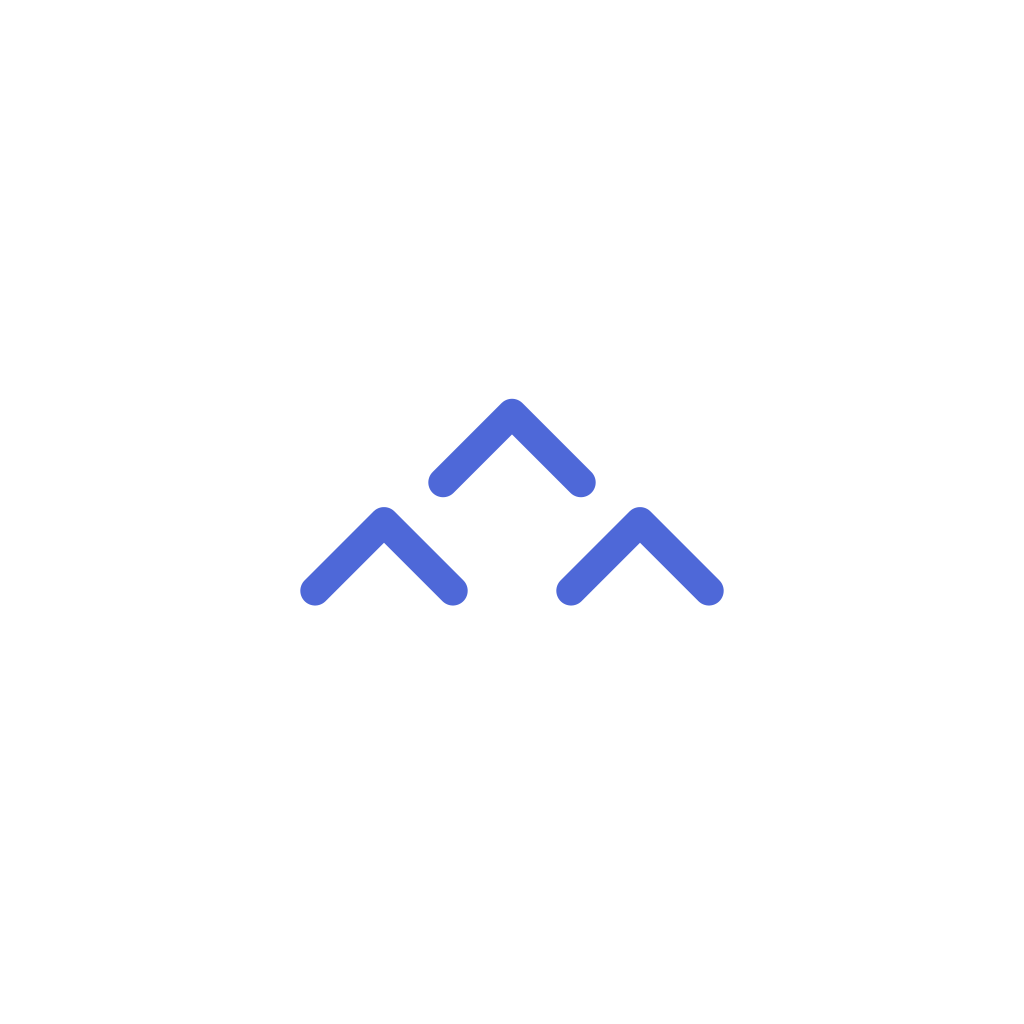
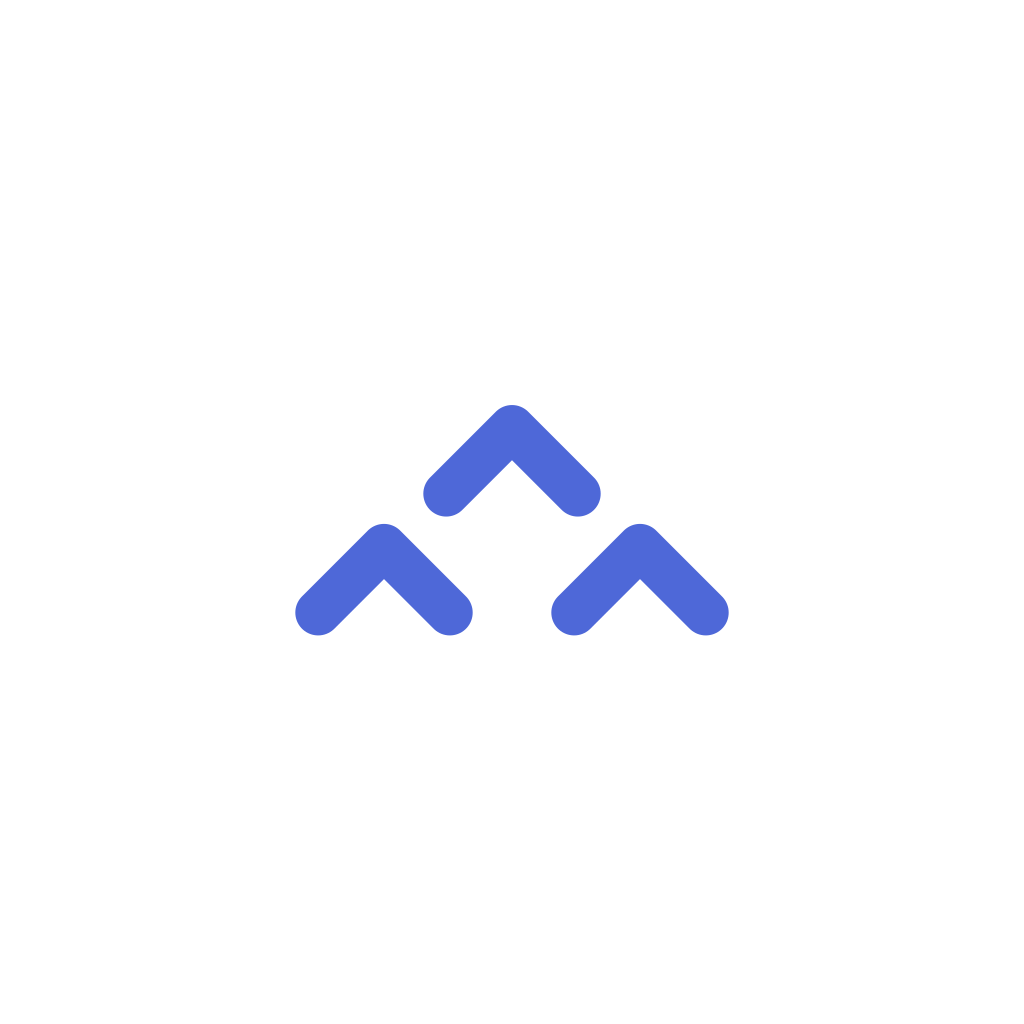
0.211.0 #no-ticket: feat: the wordmark is chunkier, with heavier compact chevrons on every surface
Chevrons keep their shape at a 2.5 stroke on a 28x22 box and the word moves to bold. Applied to the web wordmark and favicon, the invite share card (now carries the chevrons), the phone wordmark, launch screen, Trips tab icon and store icons, the docs, wireframe kit and marketing studio. The icon script and share-card image are excluded from coverage like other asset generators.

Changed region(s): [[0.2812, 0.375, 0.7188, 0.625]]

diff --git a/floc/marketing/studio/scenes/v1-steps/promo.js b/floc/marketing/studio/scenes/v1-steps/promo.js
@@ -36,8 +36,8 @@ const caption = (parent, kicker, words) => {
 const s1 = scene(0, 3.5, 0.6);
 s1.node.append(el(`<div class="abs" style="left:0;right:0;top:700px;display:flex;justify-content:center">
   <span class="mark" style="font-size:210px">
-    <svg viewBox="0 0 26 20" width="260" height="200" fill="none" stroke="currentColor" stroke-width="1.2" stroke-linecap="round" stroke-linejoin="round">
-      <path pathLength="1" d="M3 14 6.5 10.5 10 14"/><path pathLength="1" d="M9.5 8.5 13 5 16.5 8.5"/><path pathLength="1" d="M16 14 19.5 10.5 23 14"/>
+    <svg viewBox="0 0 28 22" width="254" height="200" fill="none" stroke="currentColor" stroke-width="2.5" stroke-linecap="round" stroke-linejoin="round">
+      <path pathLength="1" d="M3.4 16.5 7 12.9 10.6 16.5"/><path pathLength="1" d="M10.4 10 14 6.4 17.6 10"/><path pathLength="1" d="M17.4 16.5 21 12.9 24.6 16.5"/>
     </svg>
     <span>${[..."floc"].map((c) => `<span class="l" style="display:inline-block">${c}</span>`).join("")}<span class="dot" style="transform-origin:50% 80%">.</span></span>
   </span></div>`));
@@ -232,7 +232,7 @@ s5.update = (lt) => {
 const s6 = scene(20.5, 23, 0.6);
 s6.node.append(el(`<div class="abs" style="left:0;right:0;top:700px;display:flex;justify-content:center">
   <span class="mark" style="font-size:190px">
-    <svg viewBox="0 0 26 20" width="236" height="182" fill="none" stroke="currentColor" stroke-width="1.2" stroke-linecap="round" stroke-linejoin="round"><path d="M3 14 6.5 10.5 10 14"/><path d="M9.5 8.5 13 5 16.5 8.5"/><path d="M16 14 19.5 10.5 23 14"/></svg>
+    <svg viewBox="0 0 28 22" width="230" height="182" fill="none" stroke="currentColor" stroke-width="2.5" stroke-linecap="round" stroke-linejoin="round"><path d="M3.4 16.5 7 12.9 10.6 16.5"/><path d="M10.4 10 14 6.4 17.6 10"/><path d="M17.4 16.5 21 12.9 24.6 16.5"/></svg>
     <span>floc<span class="dot">.</span></span></span></div>`));
 const cta = el('<div class="cta">Start a trip — free</div>');
 const url = el(`<div class="url">${CTA_URL}</div>`);

diff --git a/floc/apps/mobile/src/components/system/wordmark.tsx b/floc/apps/mobile/src/components/system/wordmark.tsx
@@ -1,9 +1,9 @@
 /**
- * The wordmark, drawn natively (#no-ticket; the web's `wordmark.tsx`).
+ * Why: the wordmark, drawn natively (#no-ticket; the web's `wordmark.tsx`).
  *
  * THE SAME MARK, NOT A SIMILAR ONE. Three chevrons in a V — the flock, and the
  * "who's coming" of a trip — then the display face lowercase with the one pen
- * dot that carries through the product as "yours". Same 26×20 viewBox and the
+ * dot that carries through the product as "yours". Same 28×22 viewBox and the
  * same three paths as the browser draws, so the two surfaces cannot drift.
  *
  * IT IS THE BIGGEST THING ON THE SIGN-IN SCREEN, a third over the browser's
@@ -23,25 +23,25 @@ export function FlocWordmark() {
   const { c } = useTheme();
   return (
     <View style={{ flexDirection: "row", alignItems: "center", gap: space.sm }}>
-      <Svg width={32} height={26} viewBox="0 0 26 20" fill="none">
+      <Svg width={33} height={26} viewBox="0 0 28 22" fill="none">
         <Path
-          d="M3 14 6.5 10.5 10 14"
+          d="M3.4 16.5 7 12.9 10.6 16.5"
           stroke={c.pen}
-          strokeWidth={1.2}
+          strokeWidth={2.5}
           strokeLinecap="round"
           strokeLinejoin="round"
         />
         <Path
-          d="M9.5 8.5 13 5 16.5 8.5"
+          d="M10.4 10 14 6.4 17.6 10"
           stroke={c.pen}
-          strokeWidth={1.2}
+          strokeWidth={2.5}
           strokeLinecap="round"
           strokeLinejoin="round"
         />
         <Path
-          d="M16 14 19.5 10.5 23 14"
+          d="M17.4 16.5 21 12.9 24.6 16.5"
           stroke={c.pen}
-          strokeWidth={1.2}
+          strokeWidth={2.5}
           strokeLinecap="round"
           strokeLinejoin="round"
         />

diff --git a/floc/apps/mobile/src/components/system/launch.tsx b/floc/apps/mobile/src/components/system/launch.tsx
@@ -28,8 +28,8 @@ import { useReducedMotion } from "./use-reduced-motion";
 const EXIT_MS = 460;
 /** The chevron block, as a share of the screen width. See the note above. */
 const MARK_FRACTION = 361 / 1284;
-/** The block sits x 2.4–23.6 of the 26-unit viewBox — 21.2 units of 26. */
-const VIEWBOX_SLACK = 26 / 21.2;
+/** The block sits x 2.15–25.85 of the 28-unit viewBox — 23.7 units of 28. */
+const VIEWBOX_SLACK = 28 / 23.7;
 
 export function LaunchCurtain({ ready, onDone }: { ready: boolean; onDone: () => void }) {
   const { c } = useTheme();
@@ -85,25 +85,25 @@ export function LaunchCurtain({ ready, onDone }: { ready: boolean; onDone: () =>
           ],
         }}
       >
-        <Svg width={markWidth} height={markWidth * (20 / 26)} viewBox="0 0 26 20" fill="none">
+        <Svg width={markWidth} height={markWidth * (22 / 28)} viewBox="0 0 28 22" fill="none">
           <Path
-            d="M3 14 6.5 10.5 10 14"
+            d="M3.4 16.5 7 12.9 10.6 16.5"
             stroke={c.pen}
-            strokeWidth={1.2}
+            strokeWidth={2.5}
             strokeLinecap="round"
             strokeLinejoin="round"
           />
           <Path
-            d="M9.5 8.5 13 5 16.5 8.5"
+            d="M10.4 10 14 6.4 17.6 10"
             stroke={c.pen}
-            strokeWidth={1.2}
+            strokeWidth={2.5}
             strokeLinecap="round"
             strokeLinejoin="round"
           />
           <Path
-            d="M16 14 19.5 10.5 23 14"
+            d="M17.4 16.5 21 12.9 24.6 16.5"
             stroke={c.pen}
-            strokeWidth={1.2}
+            strokeWidth={2.5}
             strokeLinecap="round"
             strokeLinejoin="round"
           />

diff --git a/floc/apps/web/src/app/invite/[token]/opengraph-image.tsx b/floc/apps/web/src/app/invite/[token]/opengraph-image.tsx
@@ -1,10 +1,10 @@
 /**
- * The link-preview card a shared invite unfurls to — WhatsApp, iMessage, Slack
+ * Why: the link-preview card a shared invite unfurls to — WhatsApp, iMessage, Slack
  * (ticket: rich invite embed). The page already carries the OG title and
  * description; Next wires this file in as `og:image`/`twitter:image`
  * automatically, so a bare link becomes an inviting card.
  *
- * On brand: the off-white ground, the ink wordmark with the one blue dot, the
+ * On brand: the off-white ground, the chevrons and ink wordmark with the one blue dot, the
  * trip's name large. No custom font is loaded — ImageResponse's default keeps
  * this robust (rule 11): a card that always renders beats a prettier one that
  * can fail on a font fetch. A dead or unknown token falls back to a plain
@@ -63,7 +63,12 @@ export default async function InviteOgImage({
           padding: "72px 80px",
         }}
       >
-        <div style={{ display: "flex", fontSize: 34, fontWeight: 600, color: INK }}>
+        <div style={{ display: "flex", alignItems: "center", fontSize: 38, fontWeight: 700, color: INK }}>
+            <svg width={62} height={49} viewBox="0 0 28 22" fill="none" stroke={PEN} strokeWidth={2.5} strokeLinecap="round" strokeLinejoin="round" style={{ marginRight: 12 }}>
+              <path d="M3.4 16.5 7 12.9 10.6 16.5" />
+              <path d="M10.4 10 14 6.4 17.6 10" />
+              <path d="M17.4 16.5 21 12.9 24.6 16.5" />
+            </svg>
           floc<span style={{ color: PEN }}>.</span>
         </div>
 

diff --git a/docs/assets/nav.js b/docs/assets/nav.js
@@ -143,10 +143,10 @@
   brand.className = 'brand';
   brand.href = url('index.html');
   brand.innerHTML =
-    '<svg viewBox="0 0 26 20" width="25" height="20" aria-hidden="true" fill="none" ' +
-    'stroke="currentColor" stroke-width="1.2" stroke-linecap="round" stroke-linejoin="round">' +
-    '<path d="M3 14 6.5 10.5 10 14"/><path d="M9.5 8.5 13 5 16.5 8.5"/>' +
-    '<path d="M16 14 19.5 10.5 23 14"/></svg>' +
+    '<svg viewBox="0 0 28 22" width="25" height="20" aria-hidden="true" fill="none" ' +
+    'stroke="currentColor" stroke-width="2.5" stroke-linecap="round" stroke-linejoin="round">' +
+    '<path d="M3.4 16.5 7 12.9 10.6 16.5"/><path d="M10.4 10 14 6.4 17.6 10"/>' +
+    '<path d="M17.4 16.5 21 12.9 24.6 16.5"/></svg>' +
     '<span class="brand-text"><b>floc<i>.</i></b><span>Documentation</span></span>';
   host.appendChild(brand);
 
@@ -157,7 +157,7 @@
   toggle.setAttribute('aria-controls', 'sidebar');
   toggle.innerHTML =
     '<svg viewBox="0 0 14 14" width="13" height="13" aria-hidden="true" fill="none" ' +
-    'stroke="currentColor" stroke-width="1.2" stroke-linecap="round" stroke-linejoin="round">' +
+    'stroke="currentColor" stroke-width="2.5" stroke-linecap="round" stroke-linejoin="round">' +
     '<rect x="1.5" y="2" width="11" height="10" rx="1.6"/><path d="M5 2v10"/>' +
     '<path class="chev" d="M9.4 5.4 7.8 7l1.6 1.6"/></svg>';
   function markSidebar() {

diff --git a/floc/apps/mobile/src/components/system/tab-icons.tsx b/floc/apps/mobile/src/components/system/tab-icons.tsx
@@ -46,7 +46,7 @@ export function ExploreIcon({ color }: IconProps) {
 }
 
 /**
- * Trips — the wordmark's three chevrons, on their own 26×20 box.
+ * Why: Trips — the wordmark's three chevrons, on their own 28×22 box.
  *
  * These are the paths from `wordmark.tsx`, not `flock-chevron.tsx`. The two
  * differ by a vertical flip and mean opposite things: the wordmark is a flock
@@ -55,25 +55,25 @@ export function ExploreIcon({ color }: IconProps) {
  */
 export function TripsIcon({ color }: IconProps) {
   return (
-    <Svg width={(SIZE * 26) / 20} height={SIZE} viewBox="0 0 26 20" fill="none">
+    <Svg width={(SIZE * 28) / 22} height={SIZE} viewBox="0 0 28 22" fill="none">
       <Path
-        d="M3 14 6.5 10.5 10 14"
+        d="M3.4 16.5 7 12.9 10.6 16.5"
         stroke={color}
-        strokeWidth={1.6}
+        strokeWidth={2.4}
         strokeLinecap="round"
         strokeLinejoin="round"
       />
       <Path
-        d="M9.5 8.5 13 5 16.5 8.5"
+        d="M10.4 10 14 6.4 17.6 10"
         stroke={color}
-        strokeWidth={1.6}
+        strokeWidth={2.4}
         strokeLinecap="round"
         strokeLinejoin="round"
       />
       <Path
-        d="M16 14 19.5 10.5 23 14"
+        d="M17.4 16.5 21 12.9 24.6 16.5"
         stroke={color}
-        strokeWidth={1.6}
+        strokeWidth={2.4}
         strokeLinecap="round"
         strokeLinejoin="round"
       />

diff --git a/floc/marketing/studio/shared/engine.js b/floc/marketing/studio/shared/engine.js
@@ -17,8 +17,8 @@ const pose = (node, { o = 1, x = 0, y = 0, s = 1, r = 0 }) => { node.style.opaci
 const chip = (cls, letter) => `<div class="chip ${cls}">${letter}</div>`;
 const add = (parent, html) => { const n = el(html); parent.append(n); return n; };
 
-const CHEVRONS = '<path pathLength="1" d="M3 14 6.5 10.5 10 14"/><path pathLength="1" d="M9.5 8.5 13 5 16.5 8.5"/><path pathLength="1" d="M16 14 19.5 10.5 23 14"/>';
-const markHtml = (size, w, h) => `<span class="mark" style="font-size:${size}px"><svg viewBox="0 0 26 20" width="${w}" height="${h}" fill="none" stroke="currentColor" stroke-width="1.2" stroke-linecap="round" stroke-linejoin="round">${CHEVRONS}</svg><span>floc<span class="dot">.</span></span></span>`;
+const CHEVRONS = '<path pathLength="1" d="M3.4 16.5 7 12.9 10.6 16.5"/><path pathLength="1" d="M10.4 10 14 6.4 17.6 10"/><path pathLength="1" d="M17.4 16.5 21 12.9 24.6 16.5"/>';
+const markHtml = (size, w, h) => `<span class="mark" style="font-size:${size}px"><svg viewBox="0 0 28 22" width="${w}" height="${h}" fill="none" stroke="currentColor" stroke-width="2.5" stroke-linecap="round" stroke-linejoin="round">${CHEVRONS}</svg><span>floc<span class="dot">.</span></span></span>`;
 
 function caption(text, a, b, top = 290, size) {
   const n = add(stage, `<div class="cap" style="top:${top}px${size ? `;font-size:${size}px` : ""}">${text}</div>`);

diff --git a/scripts/wireframe/kit/trip-frame.css b/scripts/wireframe/kit/trip-frame.css
@@ -18,7 +18,7 @@
 .tf-bead { display: flex; align-items: center; gap: 2px; height: 44px; padding: 0 6px; border-radius: var(--radius-pill); background: var(--sheet); border: 1px solid var(--rule); box-shadow: var(--shadow-sm); }
 .tf-word { display: flex; align-items: center; gap: 7px; padding: 0 12px 0 10px; font-family: var(--display); font-weight: 600; font-size: 20px; letter-spacing: -0.03em; }
 .tf-word i { color: var(--pen); font-style: normal; }
-.tf-word svg { width: 22px; height: 17px; fill: none; stroke: var(--pen); stroke-width: 1.7; stroke-linecap: round; stroke-linejoin: round; }
+.tf-word svg { width: 22px; height: 17px; fill: none; stroke: var(--pen); stroke-width: 2.4; stroke-linecap: round; stroke-linejoin: round; }
 .tf-places a { display: flex; align-items: center; gap: 6px; height: 32px; padding: 0 14px 0 4px; border-radius: var(--radius-pill); font-size: 13.5px; color: var(--ink-2); text-decoration: none; }
 .tf-gl { display: inline-flex; align-items: center; justify-content: center; width: 26px; height: 26px; border-radius: var(--radius-pill); color: var(--ink-3); }
 .tf-places a[aria-current] { color: var(--ink); font-weight: 500; }

diff --git a/floc/apps/web/src/components/system/wordmark.tsx b/floc/apps/web/src/components/system/wordmark.tsx
@@ -7,20 +7,20 @@
  */
 export function FlocWordmark() {
   return (
-    <span className="inline-flex items-center gap-1.5 font-display text-[15px] font-semibold leading-none tracking-tight text-ink sm:text-[22px]">
+    <span className="inline-flex items-center gap-1.5 font-display text-[15px] font-bold leading-none tracking-tight text-ink sm:text-[22px]">
       <svg
-        viewBox="0 0 26 20"
+        viewBox="0 0 28 22"
         aria-hidden="true"
         className="h-[14px] w-[18px] shrink-0 text-pen sm:h-5 sm:w-[25px]"
         fill="none"
         stroke="currentColor"
-        strokeWidth={1.2}
+        strokeWidth={2.5}
         strokeLinecap="round"
         strokeLinejoin="round"
       >
-        <path d="M3 14 6.5 10.5 10 14" />
-        <path d="M9.5 8.5 13 5 16.5 8.5" />
-        <path d="M16 14 19.5 10.5 23 14" />
+        <path d="M3.4 16.5 7 12.9 10.6 16.5" />
+        <path d="M10.4 10 14 6.4 17.6 10" />
+        <path d="M17.4 16.5 21 12.9 24.6 16.5" />
       </svg>
       <span data-fuse="word" className="-mb-1 -mr-px -mt-[3px] inline-flex pb-1 pr-px pt-[3px]">
         <span data-fuse-in>

diff --git a/floc/marketing/studio/shared/base.css b/floc/marketing/studio/shared/base.css
@@ -12,7 +12,7 @@ body { font-family: var(--sans); color: var(--ink); -webkit-font-smoothing: anti
 .cap { position: absolute; left: 80px; right: 120px; top: 290px; font-family: var(--display); font-weight: 600; font-size: 96px; line-height: 1.02; letter-spacing: -0.035em; will-change: transform, opacity; }
 .mono { font-family: var(--type); }
 
-.mark { display: inline-flex; align-items: center; gap: 22px; font-family: var(--display); font-weight: 600; letter-spacing: -0.04em; line-height: 1; color: var(--ink); }
+.mark { display: inline-flex; align-items: center; gap: 22px; font-family: var(--display); font-weight: 700; letter-spacing: -0.04em; line-height: 1; color: var(--ink); }
 .mark svg { color: var(--pen); overflow: visible; }
 .mark .dot { color: var(--pen); display: inline-block; }
 

diff --git a/floc/marketing/studio/scenes/v1-steps/promo.css b/floc/marketing/studio/scenes/v1-steps/promo.css
@@ -16,7 +16,7 @@ body { font-family: var(--sans); color: var(--ink); -webkit-font-smoothing: anti
 .caption em { font-style: normal; color: var(--pen); }
 .kicker { position: absolute; left: 80px; top: 232px; font-family: var(--type); font-size: 28px; letter-spacing: 0.04em; color: var(--ink-2); }
 
-.mark { display: inline-flex; align-items: center; gap: 22px; font-family: var(--display); font-weight: 600; letter-spacing: -0.04em; line-height: 1; color: var(--ink); }
+.mark { display: inline-flex; align-items: center; gap: 22px; font-family: var(--display); font-weight: 700; letter-spacing: -0.04em; line-height: 1; color: var(--ink); }
 .mark svg { color: var(--pen); overflow: visible; }
 .mark .dot { color: var(--pen); display: inline-block; }
 
